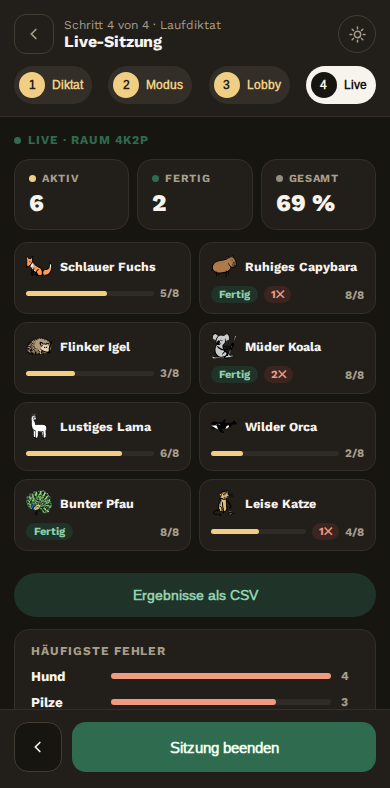
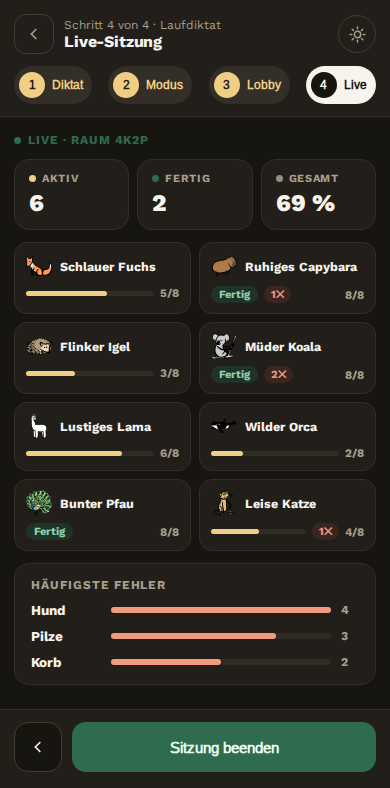
Designvergleich: Playwright-Selektoren in hide per Locator ausblenden
hide-Selektoren wie button:has-text(...) sind kein CSS; die Stilregel griff bei
5c-live/5c-live-dark nicht, die Schaltfläche war im neuen Referenzbild sichtbar.
CSS-fähige Selektoren bleiben Stilregel, die übrigen laufen wie zuvor über den
Locator. Referenzen 5c-live und 5c-live-dark auf den Stand vor ca1a845 zurück.

Claude-Session: https://claude.ai/code/session_01Ec7MEyDqag82s1JgYNn9gr

Changed region(s): [[0.0615, 0.731, 0.8923, 0.9137]]

diff --git a/e2e/design/design-fidelity.spec.ts b/e2e/design/design-fidelity.spec.ts
@@ -82,17 +82,32 @@ for (const screen of manifest.screens) {
     const frame = page.locator(`[data-screen="${screen.id}"]`);
     await expect(frame).toBeVisible();
     if (screen.ready) await frame.locator(screen.ready).waitFor();
-    // Per Stilregel statt per Inline-Stil auf den vorhandenen Knoten: Auch Knoten,
-    // die React später neu anlegt, bleiben ausgeblendet.
-    if (screen.hide?.length) {
-      await page.addStyleTag({
-        content: screen.hide
-          .map(
-            (selector) =>
-              `[data-screen="${screen.id}"] ${selector} { display: none !important; }`,
-          )
-          .join("\n"),
-      });
+    // CSS-Selektoren per Stilregel statt per Inline-Stil auf den vorhandenen
+    // Knoten: Auch Knoten, die React später neu anlegt, bleiben ausgeblendet.
+    // Playwright-Selektoren (z. B. `button:has-text("…")`) sind kein CSS und
+    // werden wie bisher über den Locator auf die vorhandenen Knoten angewendet.
+    const cssRules: string[] = [];
+    for (const selector of screen.hide ?? []) {
+      const isCss = await page.evaluate(
+        (value) => CSS.supports(`selector(${value})`),
+        selector,
+      );
+      if (isCss) {
+        cssRules.push(
+          `[data-screen="${screen.id}"] ${selector} { display: none !important; }`,
+        );
+      } else {
+        await frame
+          .locator(selector)
+          .evaluateAll((nodes) =>
+            nodes.forEach(
+              (node) => ((node as HTMLElement).style.display = "none"),
+            ),
+          );
+      }
+    }
+    if (cssRules.length) {
+      await page.addStyleTag({ content: cssRules.join("\n") });
     }
     await page.evaluate(() => document.fonts.ready);
     // Zwei Frames abwarten, damit Effekte nach der Hydrierung gelaufen sind.
